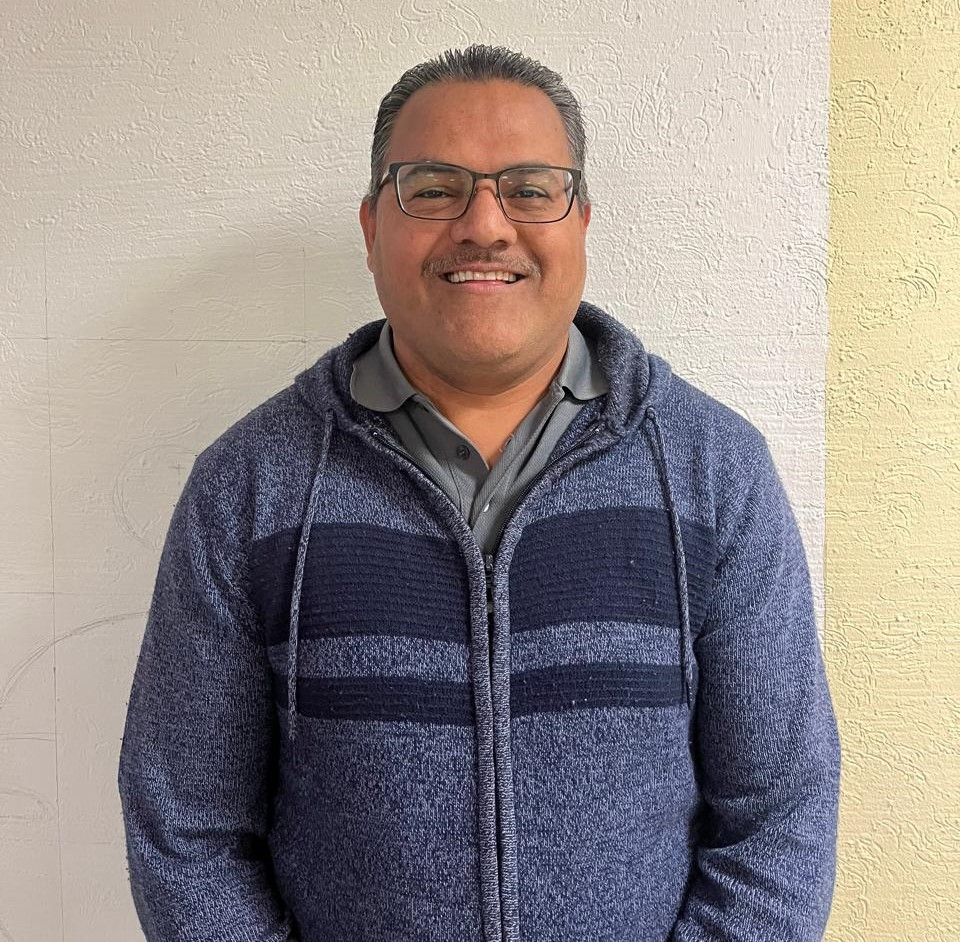
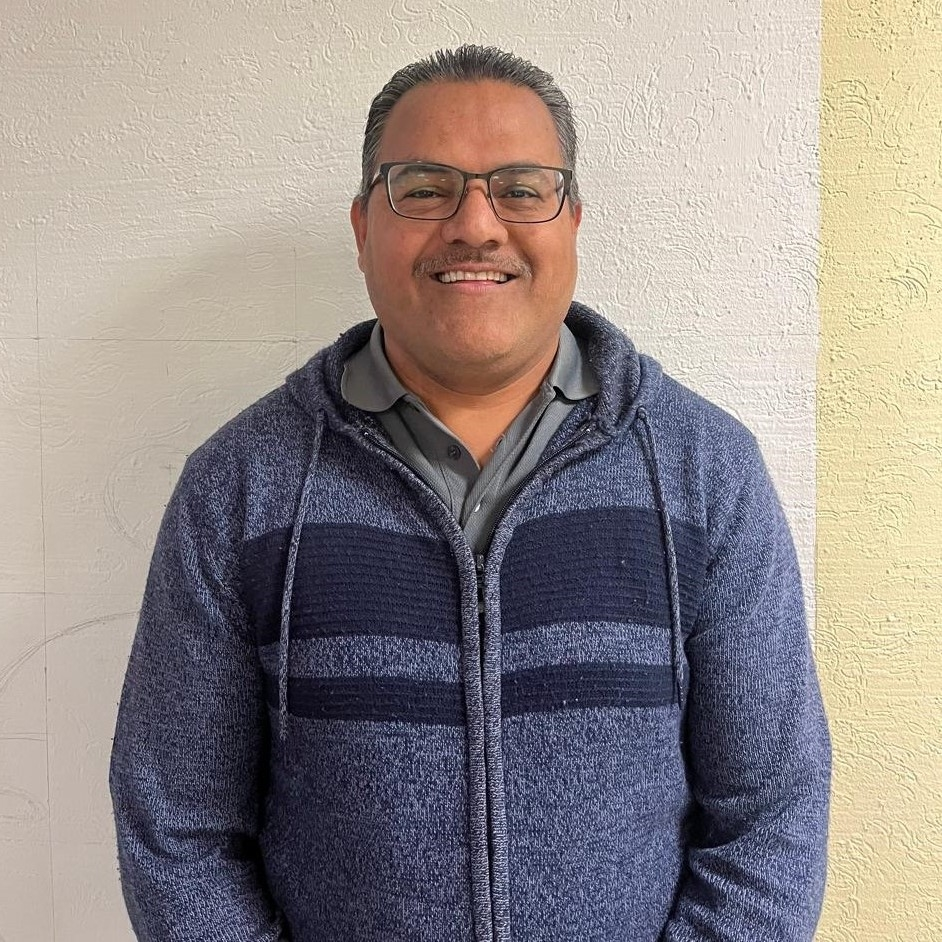
hola
sas

diff --git a/Docentes.html b/Docentes.html
@@ -132,7 +132,7 @@
             <div class="row">
                 <div class="col-lg-4 mt-5 mt-lg-0">
                     <div class="d-flex flex-column text-center bg-white mb-5 py-5 px-4">
-                        <img src="img/user.jpg" class="img-fluid mx-auto mb-3" style="width: 100px;">
+                        <img src="img/DIndel.jpg" class="img-fluid mx-auto mb-3" style="width: 100px;">
                         <h3 class="text-primary mb-3">MSC Indelfonso Rodriguez Espinoza</h3>
                         <div class="d-flex justify-content-center">
                             <a class="text-primary px-2" href="">
